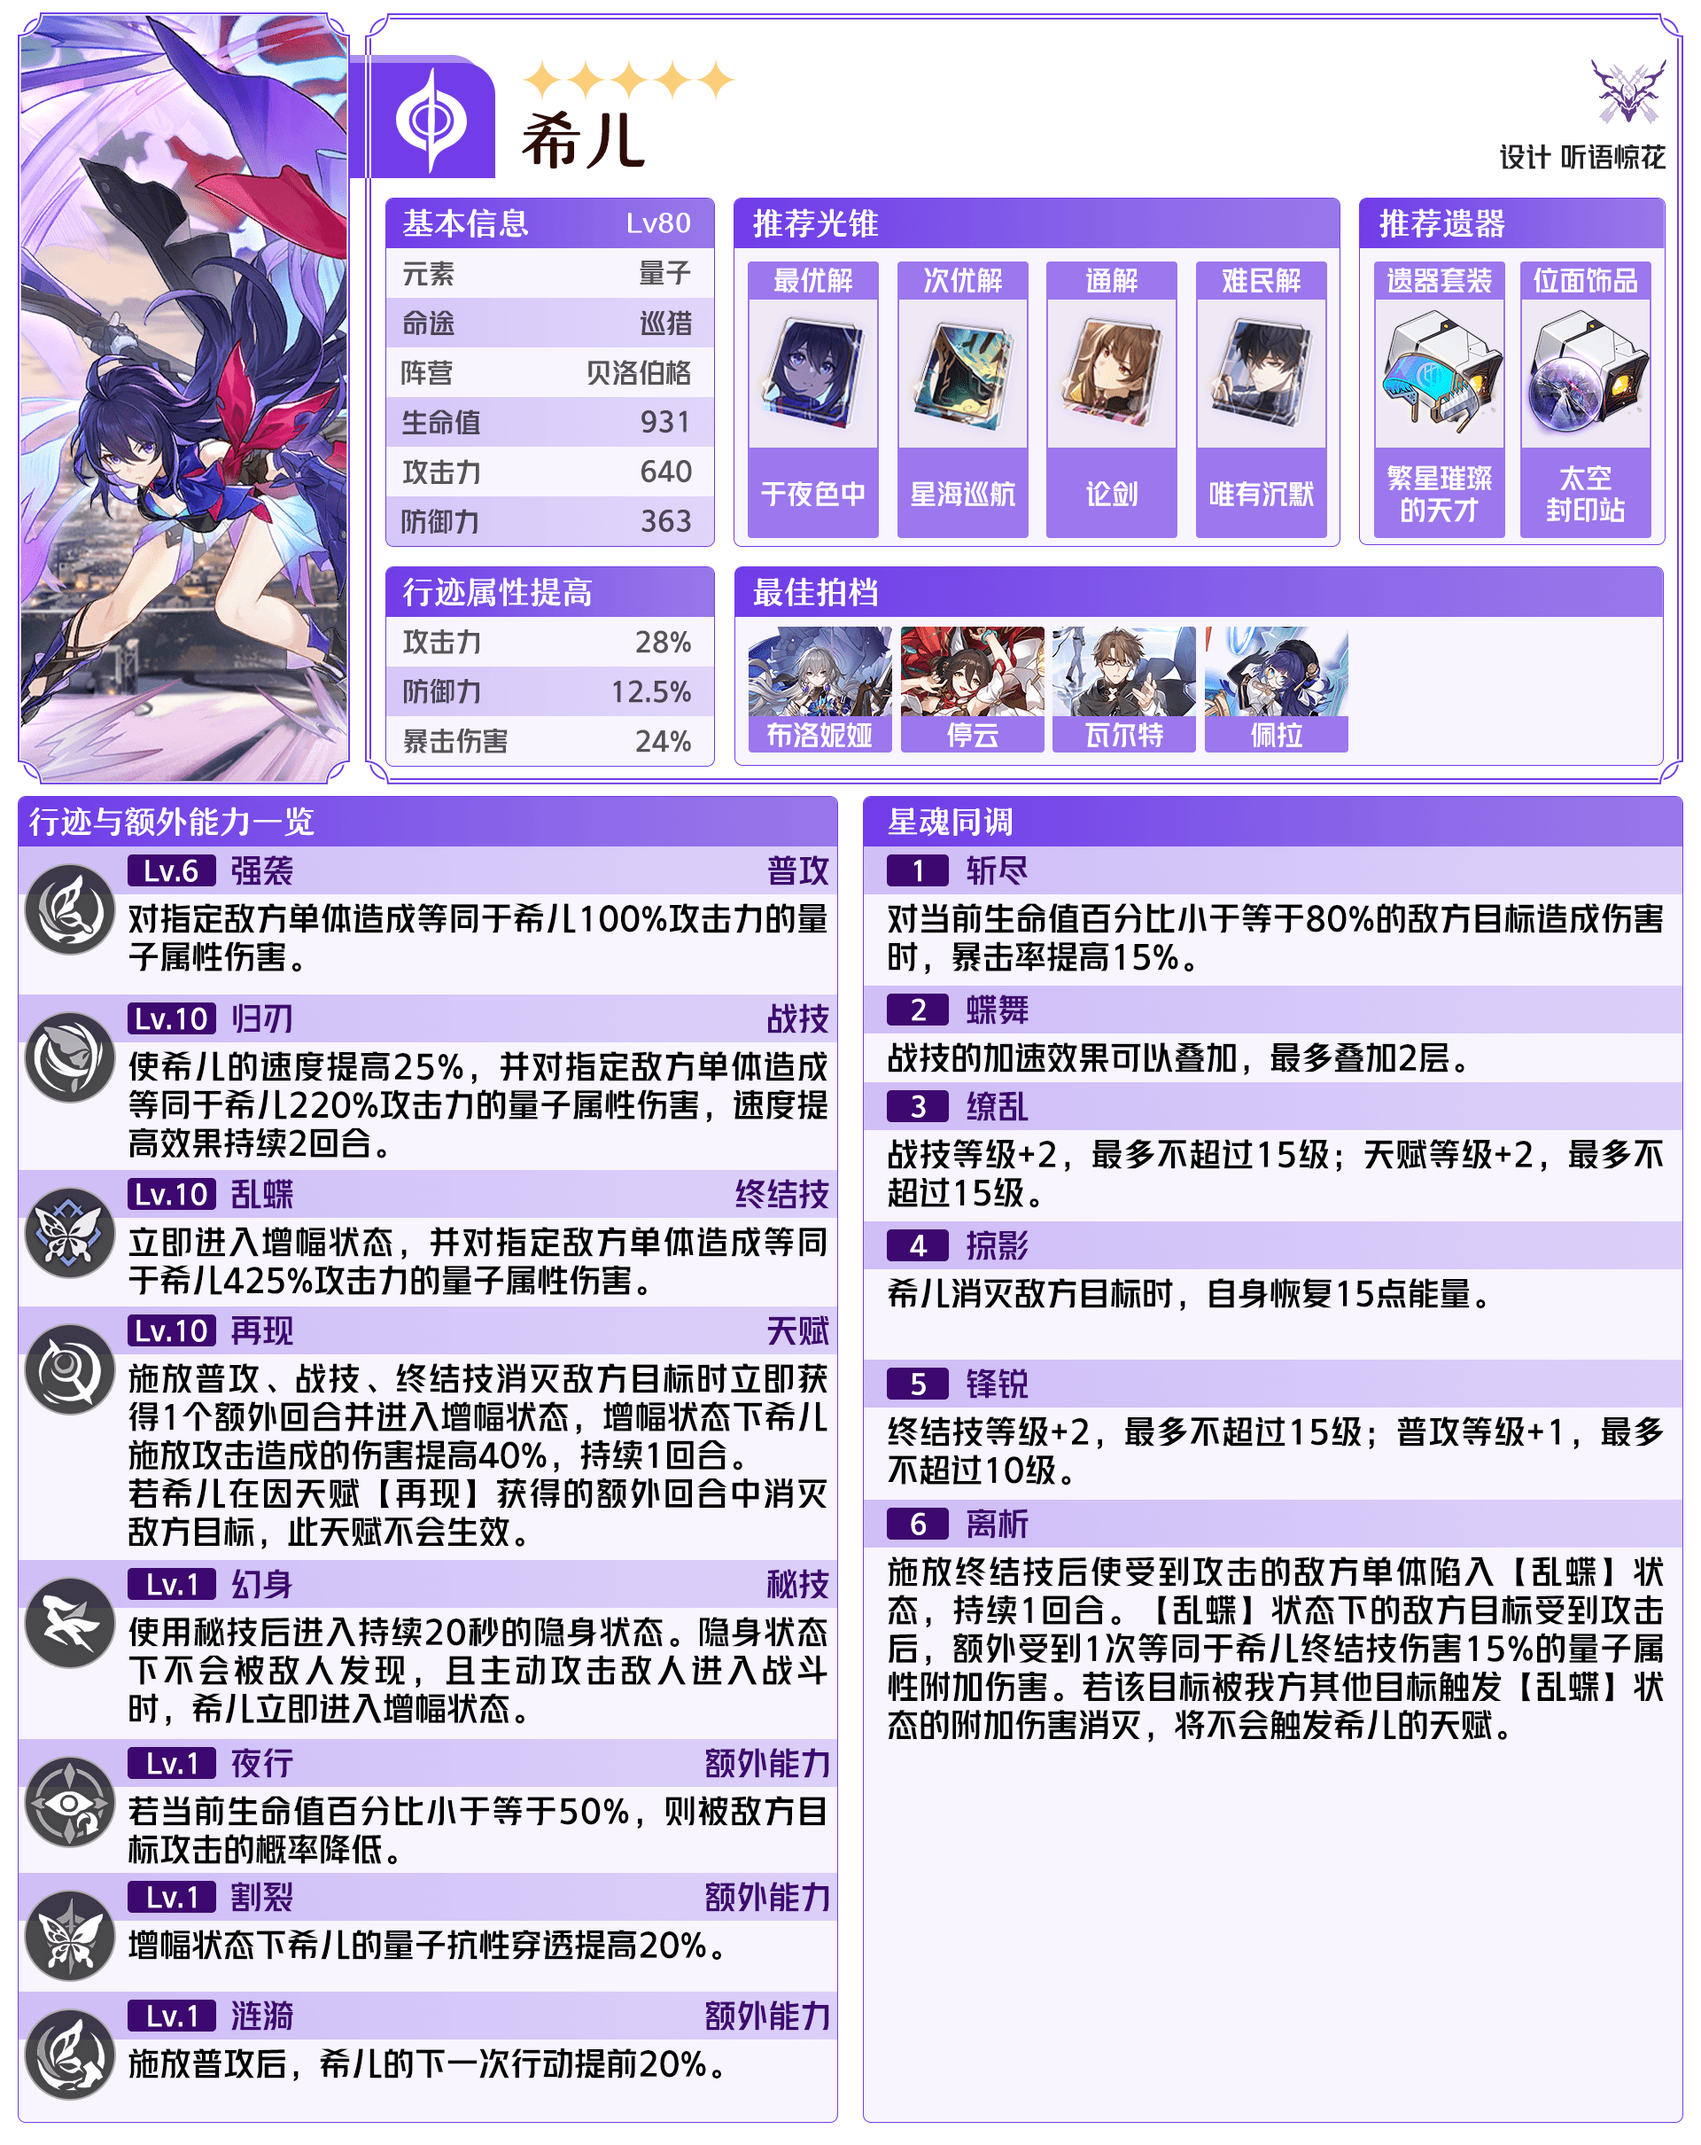
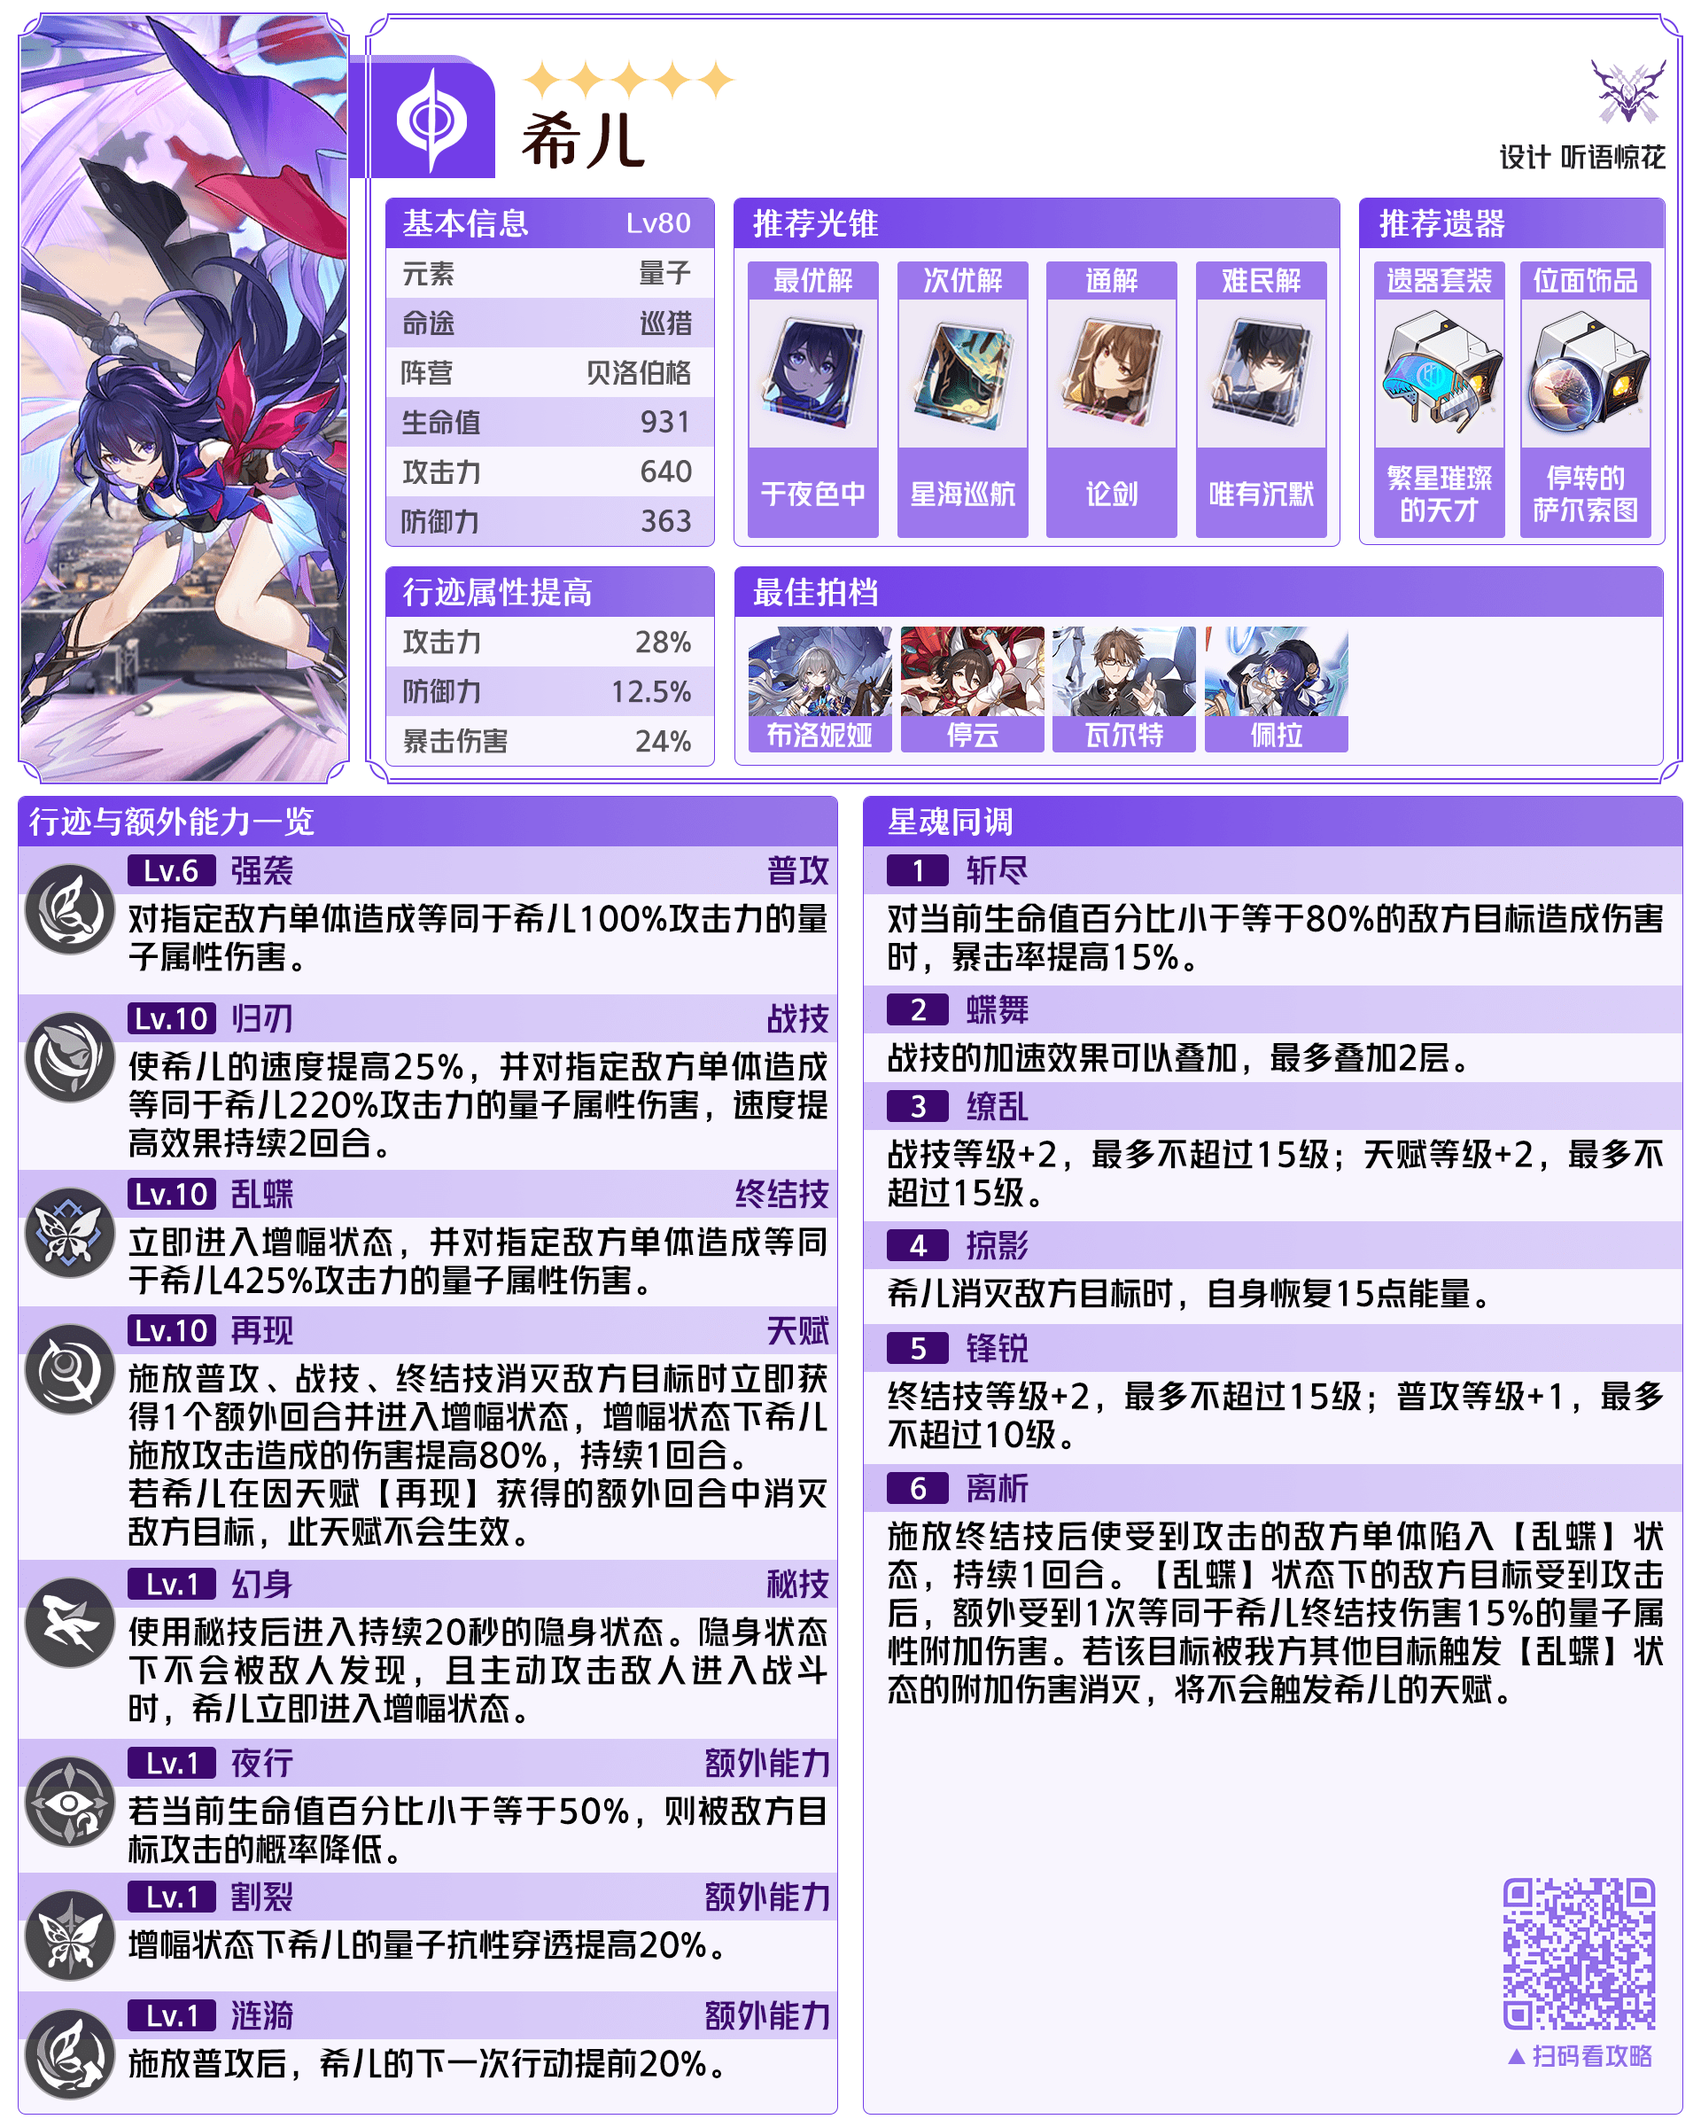
更新一部分角色图鉴和readme

Changed region(s): [[0.0, 0.0, 1.0, 1.0], [0.875, 0.875, 1.0, 0.9688], [0.3125, 0.0312, 0.3438, 0.0938]]

diff --git a/README.md b/README.md
@@ -4,18 +4,18 @@ Star-Rail-Atlas是一个主要由[`米游社@听语惊花`](https://bbs.mihoyo.c
 ## 目录结构
 ### 已经做好了的
 - [x] 光锥图鉴（更新至1.0，含68个光锥）
-
 - [x] 角色材料（包含已经实装的全部角色）
+- [x] 角色图鉴（包含已经实装的全部角色）
 
-### 正在做的
-- [ ] 角色图鉴（预计4月29日开工，5月3日左右完成）
-- [ ] 遗器图鉴（预计5月左右完成）
+- [ ] 遗器图鉴（正在制作）
 
 注意：请使用根目录下的path.json来获取准确的完整目录。
 
 ### 如何部署
 
-本仓库仅为图片仓库，并非代码仓库。目前已通过Yunzai-Bot的Atlas插件上线使用。
+本仓库仅为图片仓库，并非代码仓库。
+
+目前已通过Yunzai-Bot的Atlas插件上线使用。
 
 如要使用，请安装[Atlas](https://github.com/Nwflower/atlas.git)后发送以下命令获取更新。
 
